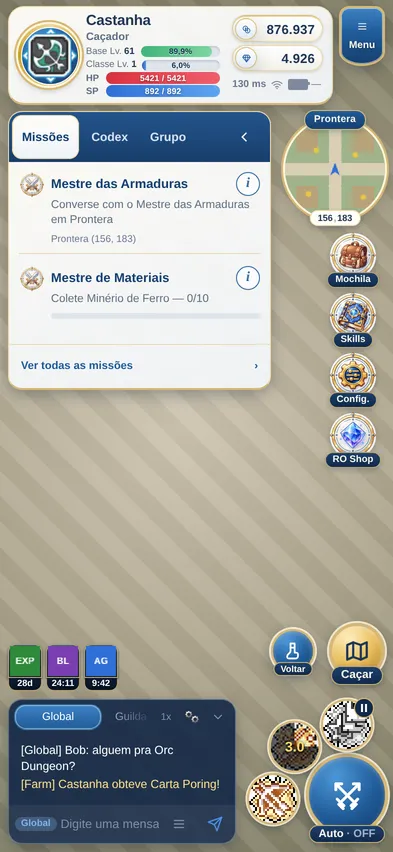
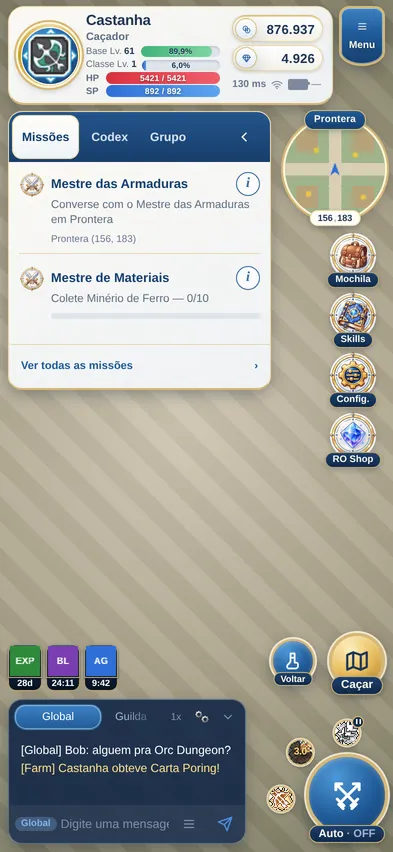
feat(hud-premium): icones do arco de skills pela metade
Pedido do dono (15/10/2026): "pode reduzir pela metade esses icones das
skills". O disco visivel sai do icone em 2x (48px) para o 1x do cliente
(24px, inteiro, sem borrar), e o ALVO do dedo continua com 44px: o botao
passa a ser so a area de toque, e o disco que se ve e o `.cc-skill-icone`
no meio dele. O raio do arco segue as areas de toque (a corda dos 45 graus
nao fica menor que 44) e conta os 3px que o aro do Auto desenha por fora.

Fotos 320/375/393/430, com e sem a barra: sem cruzamento, nada fora da
tela, todo alvo com 44px ou mais.

Claude-Session: https://claude.ai/code/session_01BjZ8PKyUsmjDUCmrES4Ep5

Changed region(s): [[0.0305, 0.7019, 1.0, 1.0]]

diff --git a/src/UI/HudPremium/componentes/CombatCornerIdle.css b/src/UI/HudPremium/componentes/CombatCornerIdle.css
@@ -113,69 +113,79 @@
 	pointer-events: none;
 }
 
+/* O BOTAO e o alvo do dedo (`--m-disco`, 44px, o piso da casa) e nao
+   desenha nada: o disco que se ve e o `.cc-skill-icone` no meio dele, do
+   tamanho do icone do cliente (`--m-disco-visivel`). Pedido do dono
+   (15/10/2026): *"pode reduzir pela metade esses icones das skills"* - o icone
+   saiu do 2x (48px) para o 1x (24px), e o dedo continua acertando com folga. */
 .ri-premium .cc-skill {
 	--dx: 0px;
 	--dy: 0px;
 	position: absolute;
-	left: calc(var(--m-disco, 48px) / -2);
-	top: calc(var(--m-disco, 48px) / -2);
-	width: var(--m-disco, 48px);
-	height: var(--m-disco, 48px);
+	left: calc(var(--m-disco, 44px) / -2);
+	top: calc(var(--m-disco, 44px) / -2);
+	width: var(--m-disco, 44px);
+	height: var(--m-disco, 44px);
 	margin: 0;
 	padding: 0;
 	border: 0;
 	border-radius: 50%;
 	transform: translate(var(--dx), var(--dy));
-	/* A face marfim por tras do icone (o icone do cliente tem fundo
-	   transparente) e o aro dourado POR FORA, para o icone ocupar o disco. */
-	background: radial-gradient(circle at 35% 25%, #ffffff 0%, #eef2f8 70%, #d9e2ee 100%);
-	box-shadow:
-		0 0 0 2px var(--m-ouro, #d7b776),
-		0 0 0 3.5px rgba(255, 246, 220, 0.85),
-		0 4px 10px rgba(3, 27, 56, 0.45);
+	background: none;
 	cursor: pointer;
 	pointer-events: auto;
 	-webkit-tap-highlight-color: transparent;
 }
 
 .ri-premium .cc-skill[data-pos='0'] {
-	--dx: calc(-1 * var(--m-raio-do-arco, 74px));
+	--dx: calc(-1 * var(--m-raio-do-arco, 62px));
 }
 
 .ri-premium .cc-skill[data-pos='1'] {
-	--dx: calc(-0.7071 * var(--m-raio-do-arco, 74px));
-	--dy: calc(-0.7071 * var(--m-raio-do-arco, 74px));
+	--dx: calc(-0.7071 * var(--m-raio-do-arco, 62px));
+	--dy: calc(-0.7071 * var(--m-raio-do-arco, 62px));
 }
 
 .ri-premium .cc-skill[data-pos='2'] {
-	--dy: calc(-1 * var(--m-raio-do-arco, 74px));
+	--dy: calc(-1 * var(--m-raio-do-arco, 62px));
 }
 
 .ri-premium .cc-skill:active {
-	scale: 0.94;
+	scale: 0.9;
 }
 
 .ri-premium .cc-skill:focus-visible {
 	outline: 2px solid #ffffff;
-	outline-offset: 4px;
+	outline-offset: -4px;
 }
 
-/* O icone: 24x24 do cliente em 2x (inteiro, sem borrar), recortado no
+/* O disco visivel: a face marfim por tras do icone (o icone do cliente tem
+   fundo transparente) e o aro dourado POR FORA, para o icone ocupar o disco.
+   O icone e o 24x24 do cliente em 1x (inteiro, sem borrar), recortado no
    redondo. O relogio de recarga (`.sc-recarga`, o mesmo da barra) mora aqui
    dentro, entao o recorte vale para ele tambem. */
 .ri-premium .cc-skill-icone {
 	position: absolute;
-	inset: 0;
+	left: 50%;
+	top: 50%;
+	width: var(--m-disco-visivel, 24px);
+	height: var(--m-disco-visivel, 24px);
+	margin: calc(var(--m-disco-visivel, 24px) / -2) 0 0 calc(var(--m-disco-visivel, 24px) / -2);
 	display: flex;
 	align-items: center;
 	justify-content: center;
 	border-radius: 50%;
 	overflow: hidden;
+	background: radial-gradient(circle at 35% 25%, #ffffff 0%, #eef2f8 70%, #d9e2ee 100%);
+	box-shadow:
+		0 0 0 1.5px var(--m-ouro, #d7b776),
+		0 0 0 2.5px rgba(255, 246, 220, 0.85),
+		0 2px 6px rgba(3, 27, 56, 0.45);
 }
 
 .ri-premium .cc-skill-icone img {
-	width: 48px;
-	height: 48px;
+	width: 24px;
+	height: 24px;
 	image-rendering: pixelated;
 	pointer-events: none;
 	user-select: none;
@@ -196,7 +206,7 @@
 	display: flex;
 	align-items: center;
 	justify-content: center;
-	font-size: 18px;
+	font-size: 12px;
 	font-weight: 800;
 	color: var(--m-azul-escuro, #163f70);
 	pointer-events: none;
@@ -207,46 +217,37 @@
 }
 
 /* A skill que o jogador desligou no rodizio: o Bot a pula, mas o toque
-   continua usando - o disco diz isso dessaturado e com o selo de PAUSA (o
-   rotulo diz por extenso). So o cinza, com transparencia, virava chuvisco: o
-   icone de 24px em 2x nao aguenta perder contraste e cor ao mesmo tempo. */
-.ri-premium .cc-skill.is-desligada .cc-skill-icone {
+   continua usando - o icone dessaturado e o selo de PAUSA no canto do disco
+   (o rotulo diz por extenso). So o cinza, com transparencia, virava chuvisco.
+   O filtro vai no icone, e nao no disco, para o aro continuar dourado. */
+.ri-premium .cc-skill.is-desligada .cc-skill-icone img {
 	filter: grayscale(1) contrast(1.1);
 }
 
 .ri-premium .cc-skill.is-desligada::before {
 	content: '';
 	position: absolute;
-	top: -3px;
-	right: -3px;
+	/* o canto de cima a direita do disco visivel, no meio do botao */
+	top: calc(50% - var(--m-disco-visivel, 24px) / 2 - 5px);
+	left: calc(50% + var(--m-disco-visivel, 24px) / 2 - 7px);
 	z-index: 3;
-	width: 18px;
-	height: 18px;
-	border: 1.5px solid var(--m-ouro, #d7b776);
+	width: 12px;
+	height: 12px;
+	box-sizing: border-box;
+	border: 1px solid var(--m-ouro, #d7b776);
 	border-radius: 50%;
 	background:
-		linear-gradient(
-				90deg,
-				transparent 5px,
-				#fff 5px,
-				#fff 7px,
-				transparent 7px,
-				transparent 9px,
-				#fff 9px,
-				#fff 11px,
-				transparent 11px
-			)
-			center / 16px 8px no-repeat,
+		linear-gradient(90deg, #fff 0 1.5px, transparent 1.5px 3.5px, #fff 3.5px 5px) center / 5px 5px no-repeat,
 		var(--m-azul-noite, #10294a);
 	pointer-events: none;
 }
 
 /* O disco sem skill: o "+" que abre o menu do Bot, onde o rodizio se escolhe. */
-.ri-premium .cc-skill.is-vazio {
-	background: rgba(16, 41, 74, 0.55);
+.ri-premium .cc-skill.is-vazio .cc-skill-icone {
+	background: rgba(16, 41, 74, 0.6);
 	box-shadow:
-		0 0 0 2px rgba(215, 183, 118, 0.75),
-		0 3px 8px rgba(3, 27, 56, 0.35);
+		0 0 0 1.5px rgba(215, 183, 118, 0.75),
+		0 2px 5px rgba(3, 27, 56, 0.35);
 }
 
 .ri-premium .cc-skill.is-vazio::after {
@@ -256,7 +257,7 @@
 	display: flex;
 	align-items: center;
 	justify-content: center;
-	font-size: 26px;
+	font-size: 16px;
 	font-weight: 700;
 	line-height: 1;
 	color: var(--m-ouro-claro, #f0d9a4);
@@ -285,13 +286,14 @@
 }
 
 .ri-premium .cc-skill .sc-recarga-num {
-	font-size: 14px;
+	font-size: 10px;
 	font-weight: 800;
 	font-variant-numeric: tabular-nums;
 	line-height: 1;
+	letter-spacing: -0.3px;
 	color: #ffd76a;
 	text-shadow:
 		0 1px 2px rgba(0, 0, 0, 0.9),
-		0 0 4px rgba(0, 0, 0, 0.7);
+		0 0 3px rgba(0, 0, 0, 0.7);
 	white-space: nowrap;
 }

diff --git a/src/UI/HudPremium/tokens.css b/src/UI/HudPremium/tokens.css
@@ -107,11 +107,16 @@ html.ri-premium {
 	/* ─── O ARCO DE SKILLS (pedido do dono, 15/10/2026) ─────────────────
 	   Com a barra de skills DESLIGADA (o padrao), as tres skills do rodizio
 	   do Bot ficam em volta do Auto, a esquerda, na diagonal e em cima dele.
-	   O disco tem o icone do cliente em 2x (24 -> 48, numero inteiro, regra 4)
-	   e e ele mesmo o alvo do dedo (48 >= 44). O raio deixa um respiro entre o
-	   Auto e os discos, e entre um disco e o vizinho (a corda dos 45 graus). */
-	--m-disco: 48px;
-	--m-respiro-do-arco: 12px;
+	   O disco que se ve tem o tamanho do icone do cliente em 1x (24px, numero
+	   inteiro, regra 4; o dono pediu a metade dos 48 do 2x), e o ALVO do dedo
+	   em volta dele continua com 44px. O raio e o das areas de toque: a corda
+	   dos 45 graus (2 R sen 22,5) nao pode ficar menor que o alvo, senao dois
+	   vizinhos disputam o mesmo dedo. O respiro conta tambem os 3px de borda
+	   que o aro do Auto desenha POR FORA de `--m-auto`: menos que isso e o alvo
+	   do disco morde a borda do Auto. */
+	--m-disco: 44px;
+	--m-disco-visivel: 24px;
+	--m-respiro-do-arco: 6px;
 	--m-raio-do-arco: calc(var(--m-auto) / 2 + var(--m-respiro-do-arco) + var(--m-disco) / 2);
 	/* A largura que o grupo de acao ocupa com o arco: do canto direito do Auto
 	   a borda esquerda do disco da esquerda (o chat e os buffs terminam antes). */
@@ -146,9 +151,9 @@ html.ri-premium {
 		--m-auto: 62px;
 		--m-cacar: 48px;
 		--m-folga-do-arco: 14px;
-		/* Com o Auto de 62 a corda dos 45 graus ficava 1px menor que o disco
-		   com o aro: o respiro cresce, e nao o disco (o icone e 2x). */
-		--m-respiro-do-arco: 15px;
+		/* Com o Auto de 62 a corda dos 45 graus ficaria menor que o alvo de
+		   44: o respiro cresce, e nao o alvo. */
+		--m-respiro-do-arco: 8px;
 	}
 }
 
